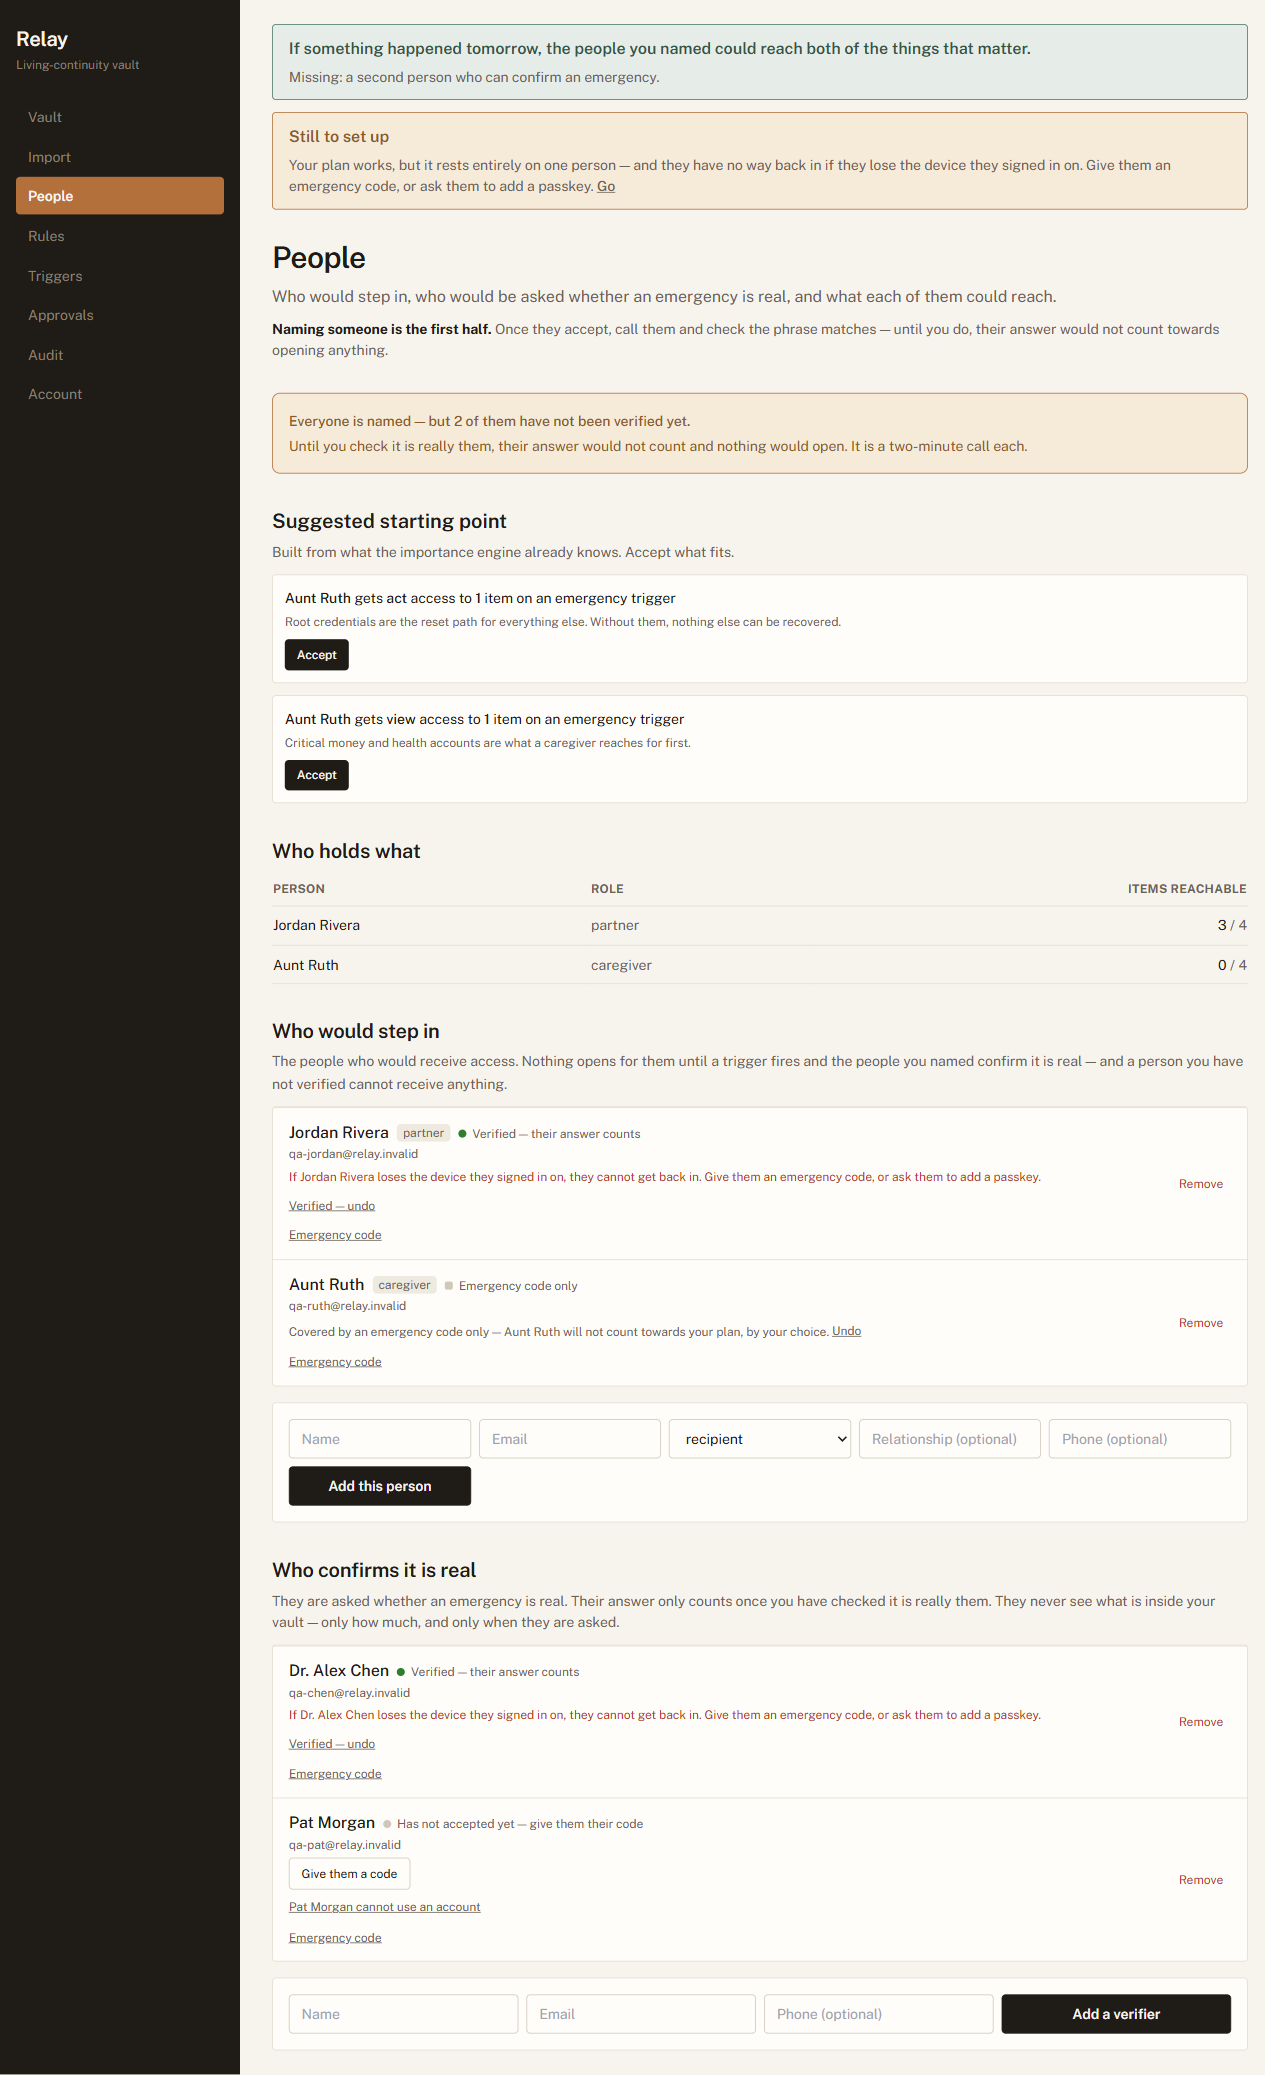
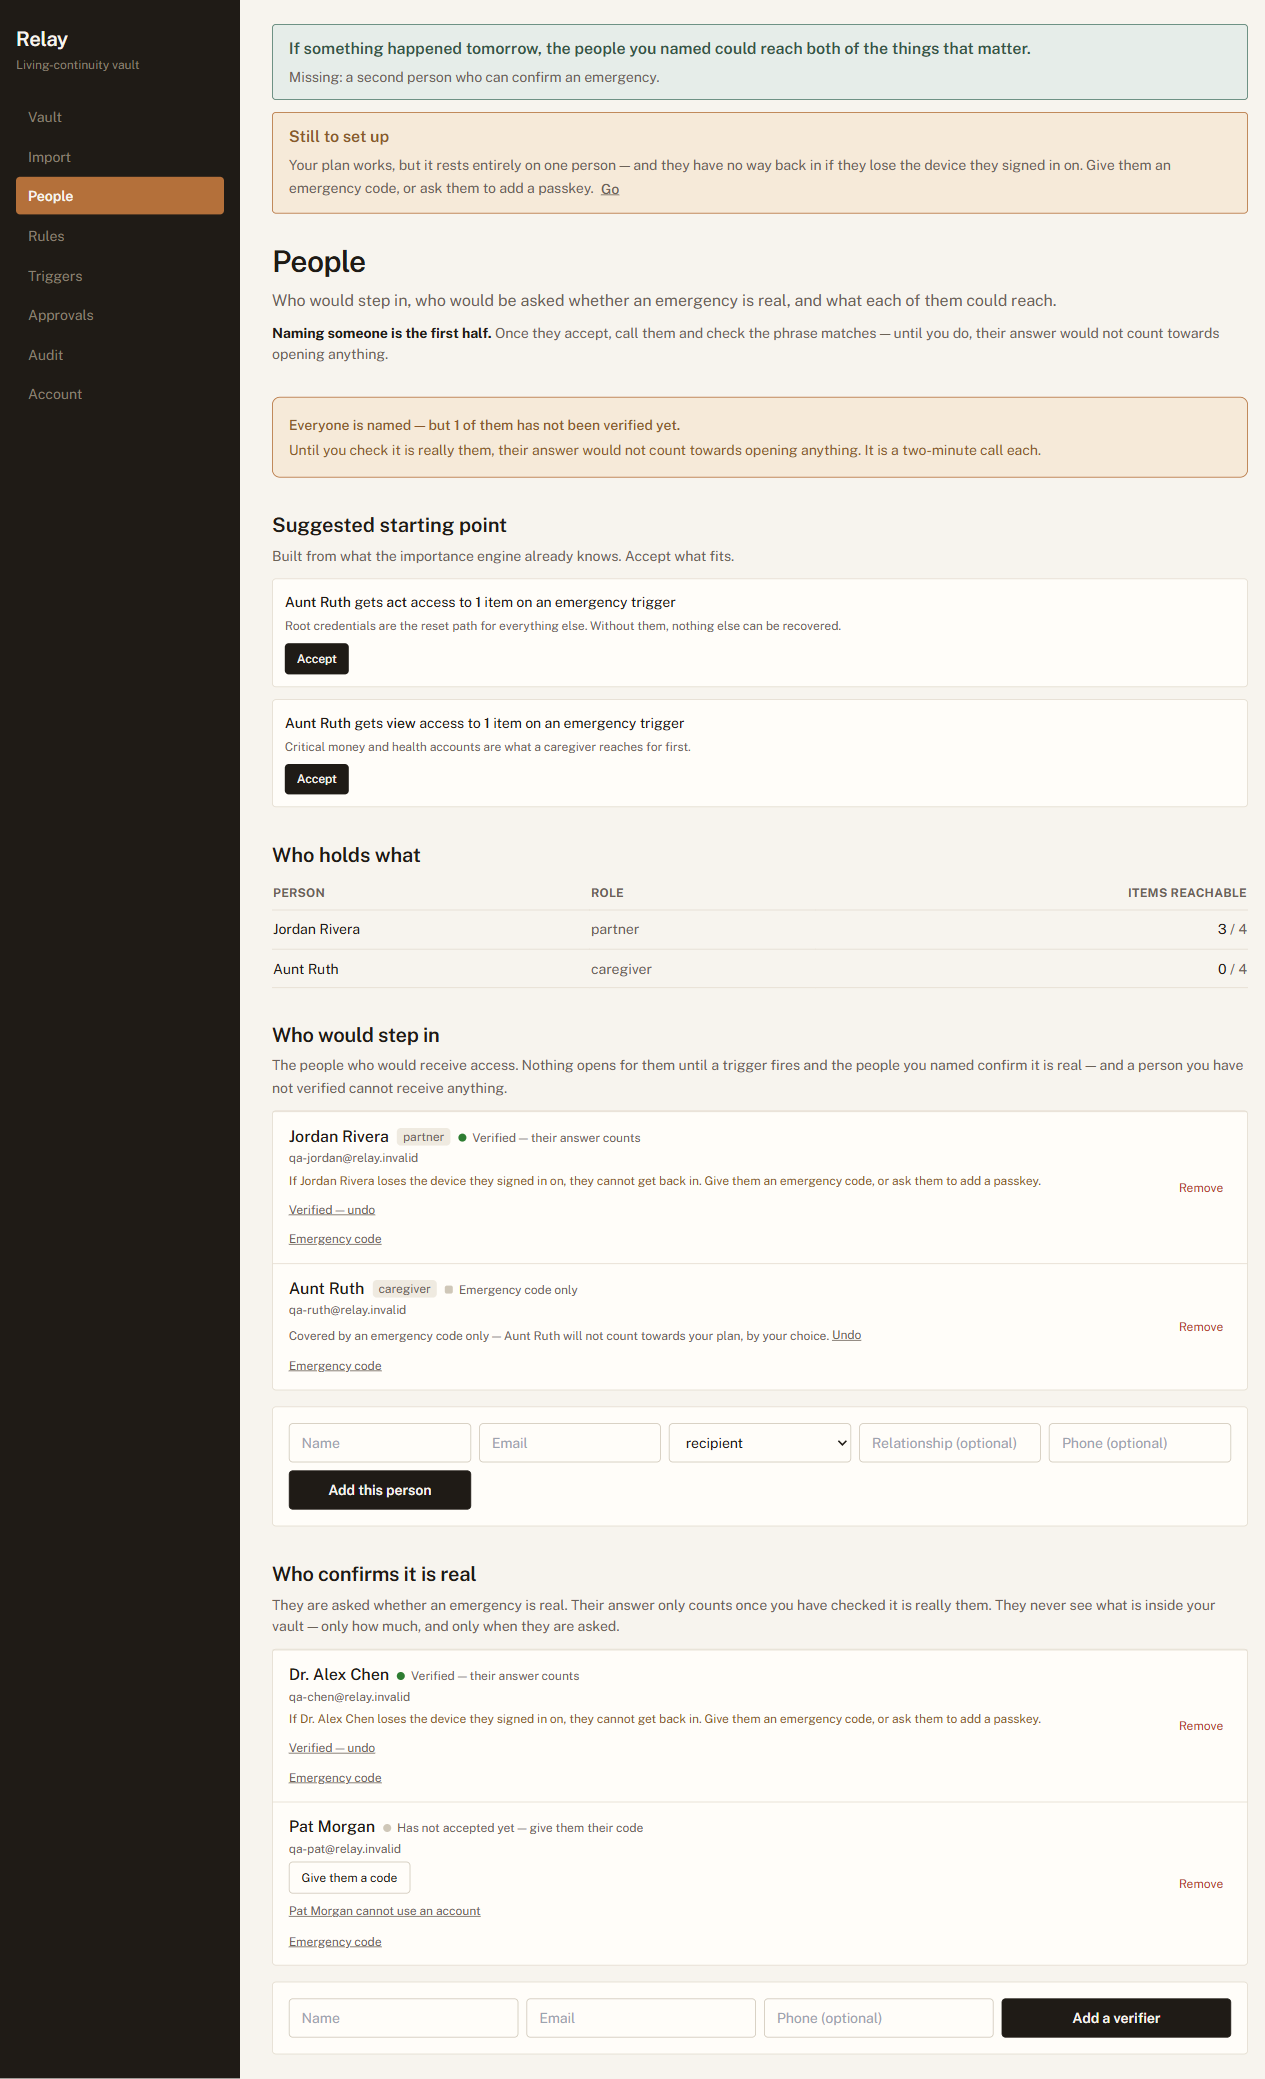
Two defects on the decision page, and a promise the product cannot keep
FOUND BY WALKING A REAL RELEASE on production rather than by reading the
diff. Both page defects are mine, from this morning.

"A emergency release has been started" -- on the one screen where a
doctor decides whether a stranger's request about someone's life is
genuine. The notification templates carry an `article()` helper for
exactly this, with a comment explaining that mail which cannot manage
"an" reads like a phishing kit. I added the sentence and did not reuse
it.

The timeline said "No response, so we started asking" directly beneath
the new "why now" line saying "They started this themselves, before
becoming unreachable". Two sentences contradicting each other about why
the verifier was called, on the highest-stakes screen in the product.
`whyNow` is derived from initiated_by and knows the cause; the timeline
is a sequence of events and should not guess at one.

AND A PROMISE THE PRODUCT CANNOT KEEP. The owner's confirmation email
said "Release will complete when the grace window elapses. If this is a
false alarm, check in now to cancel" -- while GRACE_WINDOW_MS is 0,
deliberately, with an invariant test guarding it. That invited the owner
into a race they would lose.

What is actually true is stronger, and it is the reversibility story
rather than a countdown: access opens as soon as enough people agree,
and checking in closes it again -- processCheckin reverses pending,
grace and released alike. Not protected by a delay; protected by being
[…]

diff --git a/lib/notify/notifications.ts b/lib/notify/notifications.ts
@@ -324,18 +324,38 @@ export async function notifyOneVerifier(
   });
 }
 
-/** Notifies the owner that confirmations are met but the grace window is still open (Req 6.6). */
+/**
+ * Notifies the owner that confirmations are met (Req 6.6).
+ *
+ * 🔴 THIS PROMISED A DELAY THAT DOES NOT EXIST, corrected 2026-08-12. It said
+ * "Release will complete when the grace window elapses. If this is a false
+ * alarm, check in now to cancel" — and `GRACE_WINDOW_MS` is **0**, deliberately,
+ * with an invariant test guarding it. So "when the grace window elapses" means
+ * "at the next sweep", and "check in now to cancel" invited the owner into a
+ * race they would lose. Found by walking a real release on production.
+ *
+ * What is actually true is stronger, and it is the reversibility story rather
+ * than a countdown: access opens as soon as enough people agree, and checking in
+ * CLOSES IT AGAIN — `processCheckin` reverses pending, grace and released alike.
+ * The owner is not protected by a delay; they are protected by being able to
+ * undo it the moment they surface.
+ *
+ * ⏸ Whether the window should be non-zero is a PRODUCT decision that the
+ * constant's own comment defers — "how long should an owner get to stop a false
+ * alarm?" Rewording this does not settle it, and must not imply it has been.
+ */
 export async function notifyOwnerReleasePendingGrace(
   ownerEmail: string,
   triggerType: string,
 ): Promise<void> {
   await sendEmailBestEffort({
     to: ownerEmail,
-    subject: `Your ${triggerType} release is pending the grace window`,
+    subject: `Your ${triggerType} release has been confirmed`,
     text:
-      `All required confirmations for your "${triggerType}" trigger have been received. ` +
-      `Release will complete when the grace window elapses. ` +
-      `If this is a false alarm, check in now to cancel.\n`,
+      `Everyone you asked has now confirmed your "${triggerType}" trigger, so the access you ` +
+      `arranged is opening.\n\n` +
+      `If this is a false alarm, check in and it closes again — everything reversible you set up ` +
+      `shuts immediately, and you do not have to undo anything by hand.\n`,
   });
 }
 

diff --git a/src/app/(verify)/verify/VerifyClient.tsx b/src/app/(verify)/verify/VerifyClient.tsx
@@ -35,11 +35,33 @@ interface Context {
 
 type Decision = 'confirm' | 'deny' | 'abstain';
 
+/**
+ * The timeline, in words that are true whatever started the release.
+ *
+ * 🔴 `release_transition_pending` READ "No response, so we started asking",
+ * which asserts a CAUSE — and on 2026-08-12 it appeared directly beneath the new
+ * "why now" line saying "They started this themselves, before becoming
+ * unreachable." Two sentences on the highest-stakes screen in the product,
+ * contradicting each other about why the verifier was called.
+ *
+ * `whyNow` is derived from `initiated_by` and knows the cause; this list is a
+ * sequence of events and should not guess at one.
+ */
 const ACTION_LABEL: Record<string, string> = {
   checkin_reminder_sent: 'We tried to reach them',
-  release_transition_pending: 'No response, so we started asking',
+  release_transition_pending: 'Relay began asking the people they chose',
   access_requested: 'Someone asked for access',
 };
+
+/**
+ * "A emergency release" — the same defect the notification templates carry an
+ * `article()` helper for, on the one screen where a doctor decides whether a
+ * stranger's request is genuine. Two of the five trigger types begin with a
+ * vowel, and mail (or a page) that cannot manage "an" reads like a phishing kit.
+ */
+function article(word: string): 'a' | 'an' {
+  return /^[aeiou]/i.test(word) ? 'an' : 'a';
+}
 
 export default function VerifyClient() {
   const urlToken = useSearchParams().get('token');
@@ -203,8 +225,9 @@ export default function VerifyClient() {
         */}
         <h1 className="mt-2 text-t7 font-semibold">Is this real, for {ctx.ownerLabel}?</h1>
         <p className="mt-3 text-ink">
-          A {ctx.triggerType} release has been started on <strong>{ctx.ownerLabel}</strong>&rsquo;s
-          vault, and you are one of the people they chose to ask.
+          {article(ctx.triggerType) === 'an' ? 'An' : 'A'} {ctx.triggerType} release has been
+          started on <strong>{ctx.ownerLabel}</strong>&rsquo;s vault, and you are one of the people
+          they chose to ask.
         </p>
         <p className="mt-2 text-ink">{ctx.whyNow}</p>
       </div>

diff --git a/lib/notify/notifications.test.ts b/lib/notify/notifications.test.ts
@@ -136,11 +136,25 @@ describe('notifyRecipientsOfRelease', () => {
 });
 
 describe('notifyOwnerReleasePendingGrace', () => {
-  it('sends the owner a grace-pending notice', async () => {
+  it('tells the owner the release is confirmed and how to undo it', async () => {
     _setResendClientForTesting(stubResend());
     await notifyOwnerReleasePendingGrace('owner@example.com', 'emergency');
     expect(sent[0].to).toBe('owner@example.com');
-    expect(sent[0].subject).toContain('grace window');
+    expect(sent[0].subject).toContain('confirmed');
+    expect(sent[0].text).toMatch(/check in and it closes again/i);
+  });
+
+  it('🔴 NEVER promises a delay, because GRACE_WINDOW_MS is 0', async () => {
+    // This said "Release will complete when the grace window elapses. If this is
+    // a false alarm, check in now to cancel" — inviting the owner into a race
+    // they would lose, since the window is zero by design. What protects them is
+    // reversibility, not a countdown, and that is what the message now says.
+    _setResendClientForTesting(stubResend());
+    await notifyOwnerReleasePendingGrace('owner@example.com', 'emergency');
+
+    const all = `${sent[0].subject} ${sent[0].text}`.toLowerCase();
+    expect(all).not.toContain('grace window');
+    expect(all).not.toContain('elapses');
   });
 });
 
